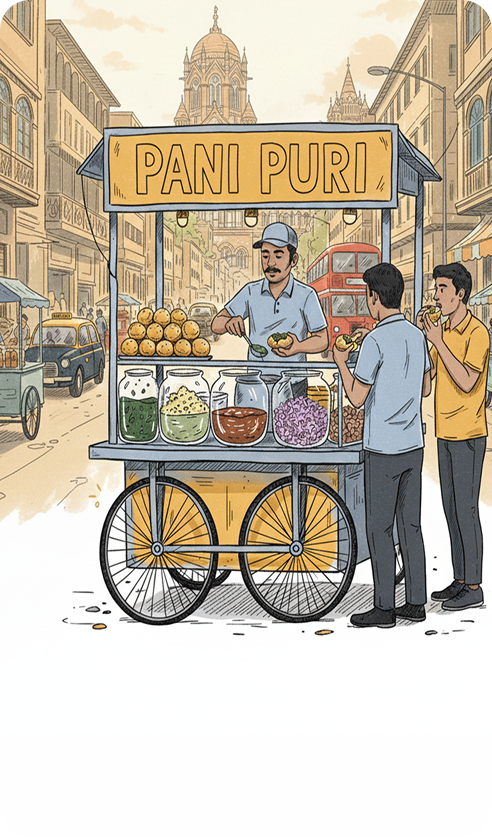
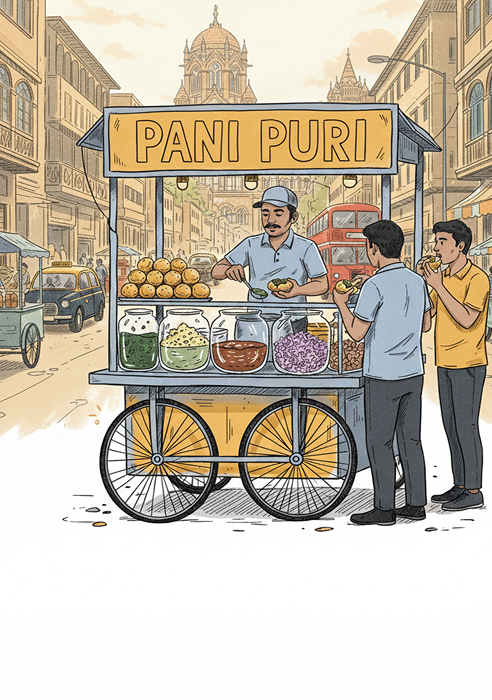
navbar issue fix

diff --git a/app/components/Header.tsx b/app/components/Header.tsx
@@ -199,11 +199,11 @@ export default function DesktopNav() {
 
   return (
     <div className="">
-      <div ref={root} className="py-5 px-10  inset-x-0 top-0 z-[99999]">
+      <div ref={root} className="py-5 px-10  inset-x-0 z-[100000]">
         {/* nav shell */}
         <div
           ref={shell}
-          className="h-[90px] container bg-[rgba(142,142,142,0.20)] rounded-[20px] backdrop-blur-md shadow-[0_4px_20px_rgba(0,0,0,0.1)] items-center absolute inset-x-0 z-[99999]"
+          className="h-[90px] container bg-[rgba(142,142,142,0.20)] rounded-[20px] backdrop-blur-md shadow-[0_4px_20px_rgba(0,0,0,0.1)] items-center absolute inset-x-0 z-[100001]"
         >
           <div className="flex items-center justify-between py-4 px-10 ">
             <Link href="/">
@@ -244,7 +244,7 @@ export default function DesktopNav() {
           {/* stage */}
           <div
             ref={stage}
-            className="relative mt-10 h-[500px] w-[650px] mx-auto flex justify-center items-center overflow-hidden rounded-xl z-50"
+            className="relative mt-10 h-[500px] w-[650px] mx-auto flex justify-center items-center overflow-hidden rounded-xl z-[100002]"
           >
             <div ref={black} />
             <div ref={yellow} />
@@ -363,7 +363,7 @@ export default function DesktopNav() {
 
         {/* Backdrop */}
         <div
-          className={`fixed inset-0 -z-10 transition-all duration-500 ${
+          className={`fixed inset-0 z-[100000] transition-all duration-500 ${
             open
               ? "opacity-90 backdrop-blur-3xl"
               : "opacity-0 pointer-events-none backdrop-blur-0"

diff --git a/app/components/ContactUs/SecondSection.tsx b/app/components/ContactUs/SecondSection.tsx
@@ -358,11 +358,11 @@ const SecondSection = () => {
     <section id="second-section" className="container py-10 sm:py-15 lg:py-20">
       <div className="bg-[#1D1D1D] rounded-[20px] relative  grid md:grid-cols-2 overflow-hidden ">
         {/* Left Side Image */}
-        <div className="lg:p-10 p-5 flex items-center justify-center">
+        <div className="lg:p-10 p-5  flex items-center justify-center">
           <img
-            src="/images/panipuricart1.png" // replace with your image path
+            src="/images/panipuricart.png" // replace with your image path
             alt="Pani Puri Cart"
-            className=" w-full h-auto object-contain rounded-[15px]"
+            className=" w-full h-full object-contain rounded-[15px]"
           />
         </div>
 

diff --git a/app/teams/page.tsx b/app/teams/page.tsx
@@ -3,7 +3,7 @@ import Button from '../components/Button'
 import Navbar from '../components/Navbar'
 import Firstsection from '@/app/components/Teams/Firstsection'
 import SecondSection from '@/app/components/Teams/SecondSection'
-import ThirdSection from '@/app/components/Teams/ThirdSection'
+// import ThirdSection from '@/app/components/Teams/ThirdSection'
 import SeventhSection from '../components/ServicesInternal/WebsiteDesign/SeventhSection'
 import Footer from '../components/Footer'
 // import ClientScripts from '../components/ClientScripts'
@@ -18,7 +18,7 @@ const Index = () => {
         <Navbar />
         <Firstsection />
         <SecondSection /> 
-         <ThirdSection />
+         {/* <ThirdSection /> */}
         <SeventhSection />
         <Footer /> 
 

diff --git a/app/components/ServicesInternal/PerformanceMaketing/FirstSection.tsx b/app/components/ServicesInternal/PerformanceMaketing/FirstSection.tsx
@@ -23,7 +23,7 @@ const FirstSection = () => {
 
   return (
     
-<section className="w-full container  py-0 sm:py-15 lg:py-20 lg:mt-20 -mt-10 flex flex-col md:flex-row items-center justify-between gap-10">
+<section className="w-full container  py-0 sm:py-15 lg:py-20 lg:mt-10 -mt-10 flex flex-col md:flex-row items-center justify-between gap-10">
   {/* Left Side - Text */}
   <div className="flex-1 text-center md:text-left space-y-4">
     <h1 className= "w-full max-w-[700px] mx-auto md:mx-0 lg:mt-10">

diff --git a/app/components/ServicesInternal/SEO/FirstSection.tsx b/app/components/ServicesInternal/SEO/FirstSection.tsx
@@ -23,7 +23,7 @@ const FirstSection = () => {
 
   return (
     
-<section className="w-full container  py-0 sm:py-15 lg:py-20 lg:mt-20 -mt-10 flex flex-col md:flex-row items-center justify-between gap-10">
+<section className="w-full container  py-0 sm:py-15 lg:py-20 lg:mt-10 -mt-10 flex flex-col md:flex-row items-center justify-between gap-10">
   {/* Left Side - Text */}
   <div className="flex-1 text-center md:text-left space-y-4">
     <h1 className= "w-full max-w-[700px] mx-auto md:mx-0 lg:mt-10">

diff --git a/app/components/ServicesInternal/SocialMedia/FirstSection.tsx b/app/components/ServicesInternal/SocialMedia/FirstSection.tsx
@@ -23,7 +23,7 @@ const FirstSection = () => {
 
   return (
     
-<section className="w-full container py-0 sm:py-15 lg:py-20 lg:mt-20 -mt-10 flex flex-col md:flex-row items-center justify-between gap-10">
+<section className="w-full container py-0 sm:py-15 lg:py-20 lg:mt-10 -mt-10 flex flex-col md:flex-row items-center justify-between gap-10">
   {/* Left Side - Text */}
   <div className="flex-1 text-center md:text-left space-y-4">
     <h1 className= "w-full max-w-[700px] mx-auto md:mx-0 lg:mt-10">

diff --git a/app/components/ServicesInternal/WebsiteDesign/FirstSection.tsx b/app/components/ServicesInternal/WebsiteDesign/FirstSection.tsx
@@ -23,7 +23,7 @@ const FirstSection = () => {
 
   return (
     
-<section className="w-full container py-0 sm:py-15 lg:py-20 lg:mt-20 -mt-10 flex flex-col md:flex-row items-center justify-between gap-10">
+<section className="w-full container py-0 sm:py-15 lg:py-20 lg:mt-10 -mt-10 flex flex-col md:flex-row items-center justify-between gap-10">
   {/* Left Side - Text */}
   <div className="flex-1 text-center md:text-left space-y-4">
     <h1 className= "w-full max-w-[650px] mx-auto md:mx-0 lg:mt-10">

diff --git a/app/components/AboutUs/Firstsection.tsx b/app/components/AboutUs/Firstsection.tsx
@@ -25,7 +25,7 @@ const FirstSection = () => {
 
   return (
     
-<section className="w-full container  py-0 sm:py-15 lg:py-20 lg:mt-20 -mt-10 flex flex-col md:flex-row items-center justify-between gap-10">
+<section className="w-full container  py-0 sm:py-15 lg:py-20 lg:mt-10 -mt-10 flex flex-col md:flex-row items-center justify-between gap-10">
   {/* Left Side - Text */}
   <div className="flex-1 text-center md:text-left">
     <h1 className="black-text w-full max-w-[800px] mx-auto md:mx-0 ">

diff --git a/app/components/Clients/Firstsection.tsx b/app/components/Clients/Firstsection.tsx
@@ -21,7 +21,7 @@ const Firstsection = () => {
 
   return (    <section
       ref={ref}
-      className="relative  container  py-0 sm:py-15 lg:py-20 lg:mt-20 -mt-10 mx-auto overflow-hidden px-4 sm:px-6 lg:px-8"
+      className="relative  container  py-0 sm:py-15 lg:py-20 lg:mt-10 -mt-10 mx-auto overflow-hidden px-4 sm:px-6 lg:px-8"
     >
       <div className="border-b-2 border-[var(--color-highlight)]">
         <div className="flex flex-col lg:flex-row items-start relative">

diff --git a/app/components/Services/Firstsection.tsx b/app/components/Services/Firstsection.tsx
@@ -22,7 +22,7 @@ const Firstsection = () => {
   return (
     <section
       ref={ref}
-      className="relative container mx-auto overflow-hidden px-4 sm:px-6 lg:px-8  py-0 sm:py-15 lg:py-20 lg:mt-20 -mt-10"
+      className="relative container mx-auto overflow-hidden px-4 sm:px-6 lg:px-8  py-0 sm:py-15 lg:py-20 lg:mt-10 -mt-10"
     >
       <div className="border-b-2 border-[var(--color-highlight)]">
         <div className="flex flex-col lg:flex-row items-start relative">

diff --git a/app/components/Career/Firstsection.tsx b/app/components/Career/Firstsection.tsx
@@ -21,7 +21,7 @@ const Firstsection = () => {
 
   return (    <section
       ref={ref}
-      className="relative h-5xl  container py-0 sm:py-15 lg:py-20 lg:mt-20 -mt-10  overflow-hidden px-4 sm:px-6 lg:px-8"
+      className="relative h-5xl  container py-0 sm:py-15 lg:py-20 lg:mt-10 -mt-10  overflow-hidden px-4 sm:px-6 lg:px-8"
     >
       <div className="border-b-2 border-[var(--color-highlight)]">
         <div className="flex flex-col lg:flex-row items-start relative">

diff --git a/app/components/ContactUs/Firstsection.tsx b/app/components/ContactUs/Firstsection.tsx
@@ -21,7 +21,7 @@ const Firstsection = () => {
 
   return (    <section
       ref={ref}
-      className="relative container py-0 sm:py-15 lg:py-20 lg:mt-20 -mt-10 mx-auto overflow-hidden px-4 sm:px-6 lg:px-8"
+      className="relative container py-0 sm:py-15 lg:py-20 lg:mt-10 -mt-10 mx-auto overflow-hidden px-4 sm:px-6 lg:px-8"
     >
       <div className="border-b-2 border-[var(--color-highlight)]">
         <div className="flex flex-col lg:flex-row items-start relative">
